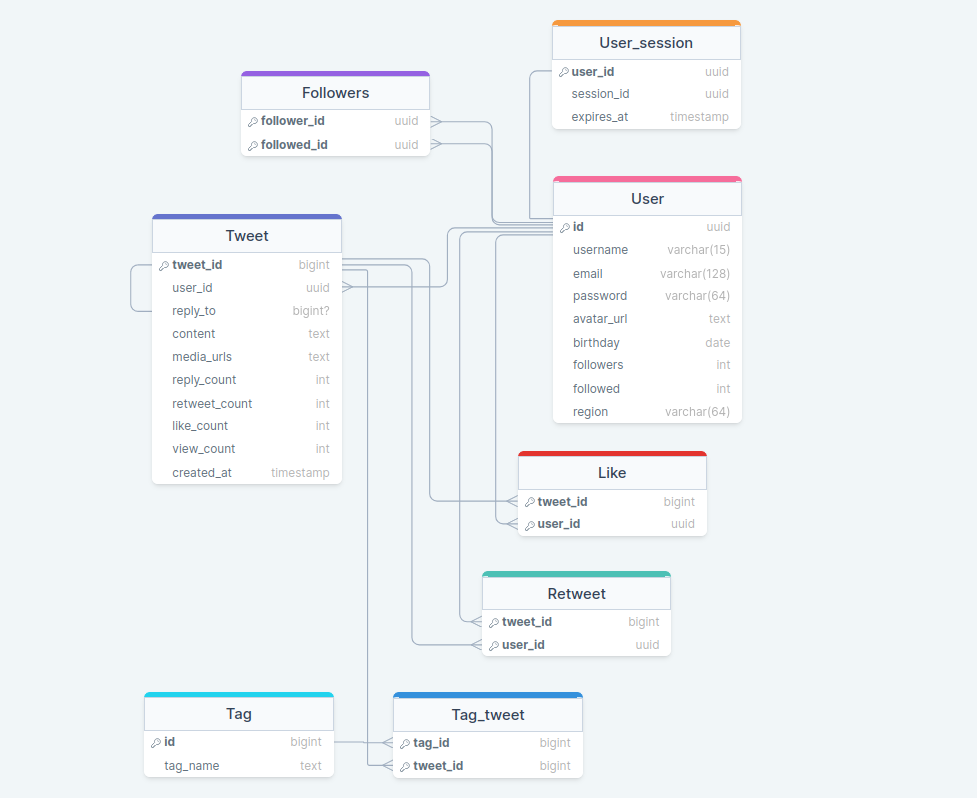
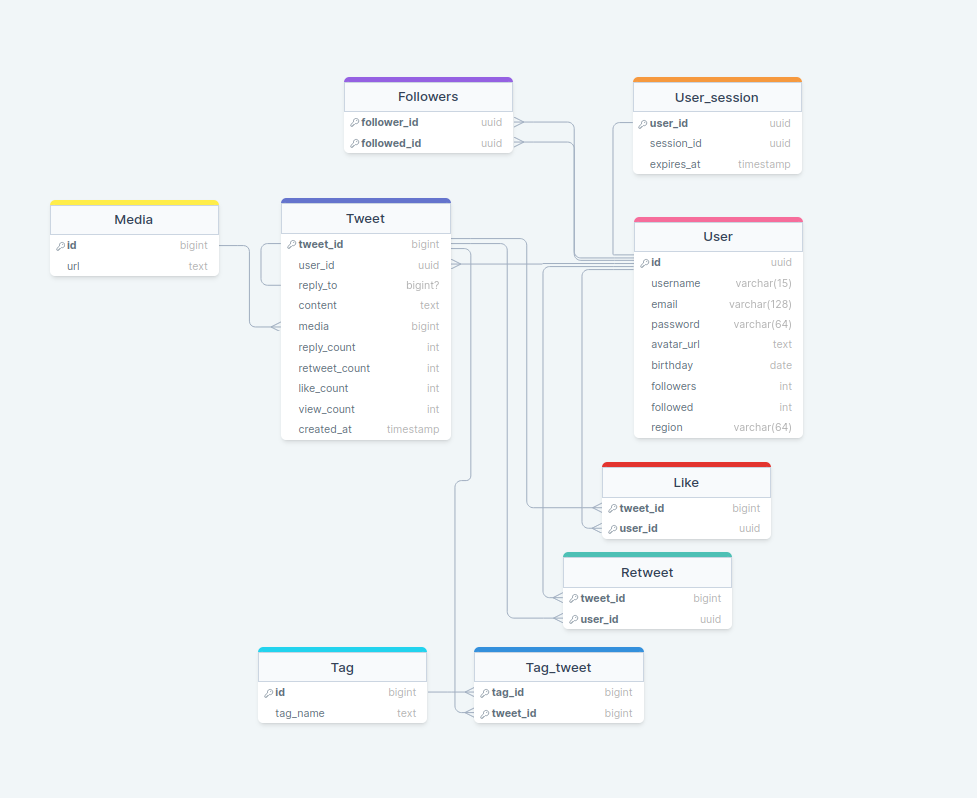
add table for media

diff --git a/README.md b/README.md
@@ -261,20 +261,20 @@ Kubernetes удаляет зависшие приложения, которые 
 - timestamp = 8 байт
 - varchar(n) = n байт
 - будем считать, что url медиафайла в среднем равен 50 байтам
-- поле media_urls содержит массив url`ов ```text[]```. Допустим, что в среднем это поле будет иметь размер 100 байт
 - текст твита = ~200 байт
 - название тега = ~20 байт
 
-| Таблица      | Размер записи в байтах                           |
-|:-------------|:-------------------------------------------------|
-| User         | 16 + 15 + 128 + 64 + 50 + 4 = 277                |
-| User_session | 16 + 16 + 8 = 40                                 |
-| Followers    | 16 + 16 = 32                                     |
-| Tweet        | 8 + 16 + 8 + 200 + 100 + 4 + 4 + 4 + 4 + 8 = 356 |
-| Like         | 8 + 16 = 24                                      |
-| Retweet      | 8 + 16 = 24                                      |
-| Tag          | 8 + 20 = 28                                      |
-| Tag_tweet    | 8 + 8 = 16                                       |
+| Таблица      | Размер записи в байтах                          |
+|:-------------|:------------------------------------------------|
+| User         | 16 + 15 + 128 + 64 + 50 + 4 = 277               |
+| User_session | 16 + 16 + 8 = 40                                |
+| Followers    | 16 + 16 = 32                                    |
+| Tweet        | 8 + 16 + 8 + 200 + 16 + 4 + 4 + 4 + 4 + 8 = 272 |
+| Like         | 8 + 16 = 24                                     |
+| Retweet      | 8 + 16 = 24                                     |
+| Tag          | 8 + 20 = 28                                     |
+| Tag_tweet    | 8 + 8 = 16                                      |
+| Media        | 8 + 50 = 58                                     |
 
 
 ## Источники
